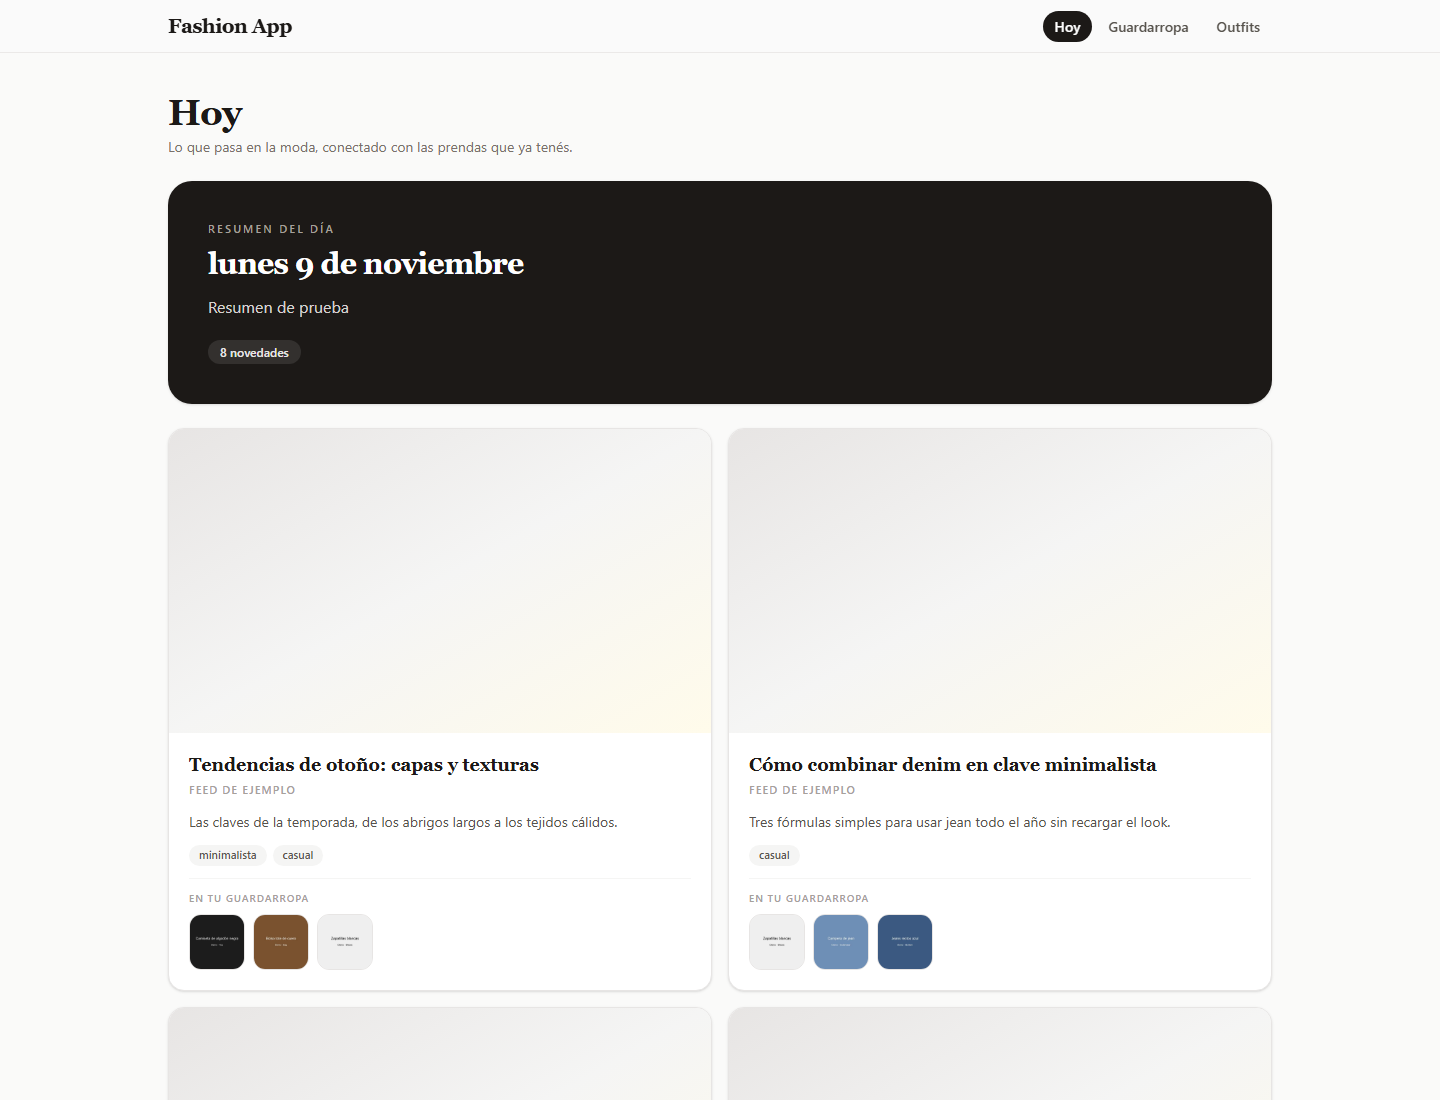
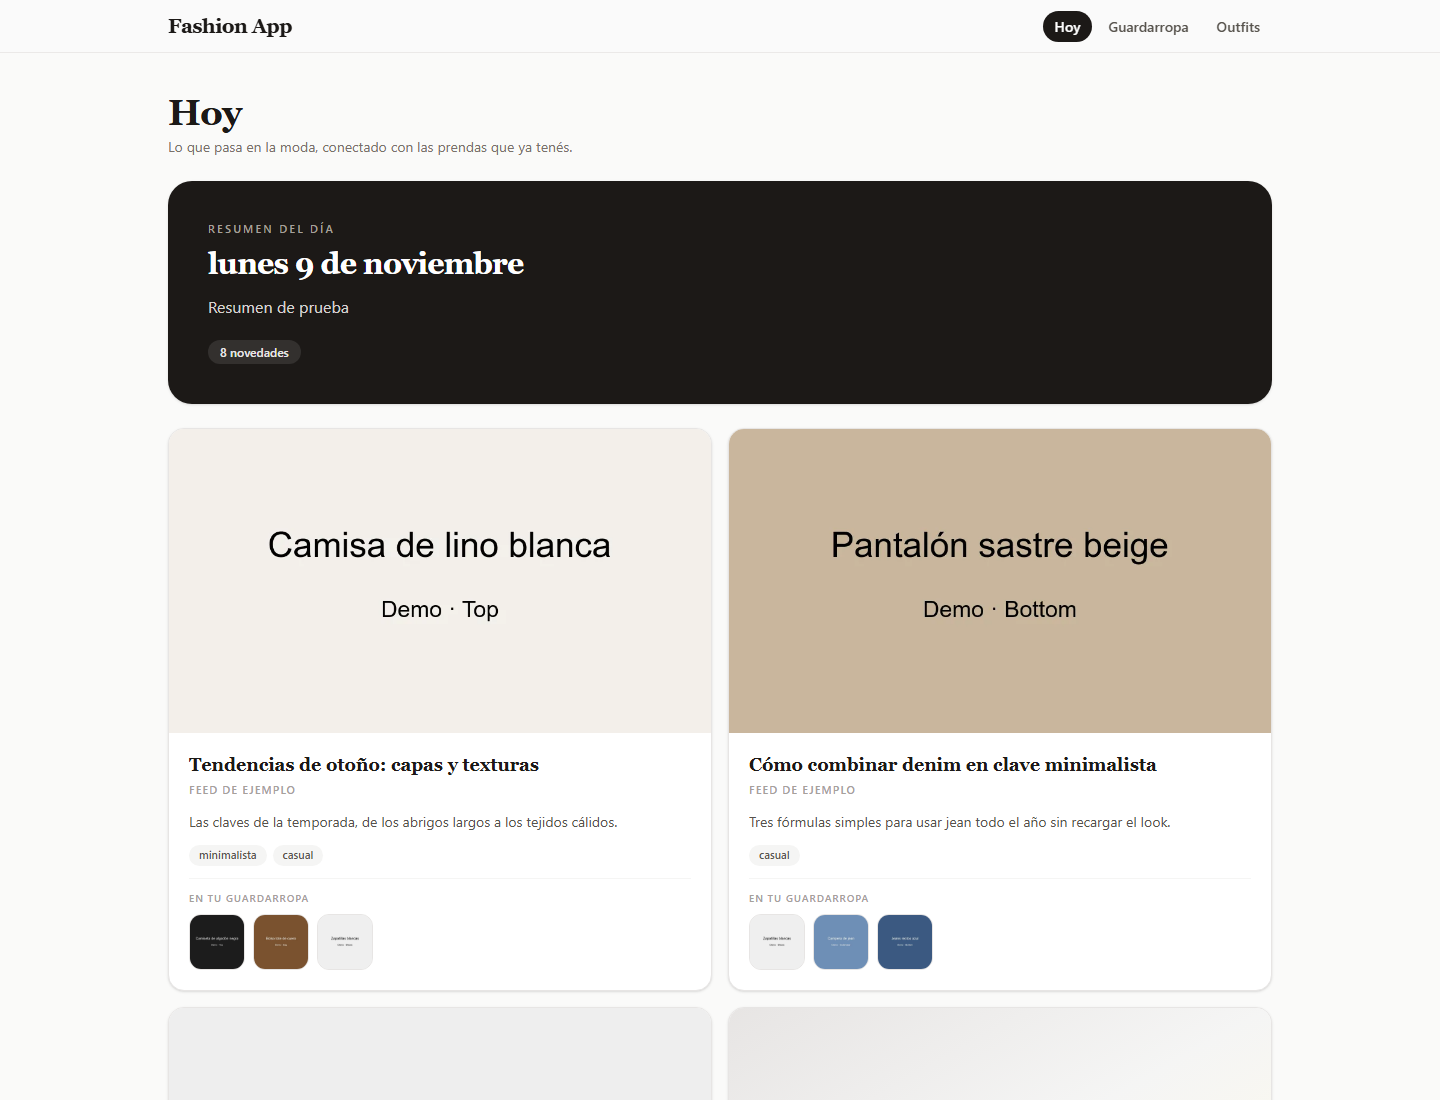
test: add demo images to the Hoy portfolio captures

Changed region(s): [[0.5, 0.3709, 0.9062, 0.68], [0.1875, 0.4636, 0.4375, 0.5255]]

diff --git a/frontend/tests/screenshots.spec.ts b/frontend/tests/screenshots.spec.ts
@@ -20,6 +20,7 @@ import type { APIRequestContext, Browser, Page } from '@playwright/test'
  */
 
 const API_URL = 'http://localhost:5210'
+const WEB_URL = 'http://localhost:5173'
 const ADMIN_SECRET = 'test-secret'
 const repoDir = resolve(dirname(fileURLToPath(import.meta.url)), '..', '..')
 const screenshotsDir = join(repoDir, 'docs', 'screenshots')
@@ -32,6 +33,13 @@ const demoAssetsDir = join(
   'SeedAssets',
 )
 const manifestPath = join(demoAssetsDir, 'manifest.json')
+// Absolute on purpose: `mediaUrl()` leaves absolute URLs untouched, and the
+// Vite dev server (not the API) serves the files in `frontend/public/`.
+const DEMO_NOTE_IMAGES = [
+  `${WEB_URL}/demo-note.webp`,
+  `${WEB_URL}/demo-note-2.webp`,
+  `${WEB_URL}/demo-note-3.webp`,
+]
 
 interface ManifestItem {
   name: string
@@ -289,17 +297,52 @@ async function captureAll(browser: Browser) {
         viewport.suffix === 'desktop'
           ? (capture.desktopHeight ?? viewport.viewport.height)
           : (capture.mobileHeight ?? viewport.viewport.height)
-      await page.setViewportSize({ width: viewport.viewport.width, height })
-      await page.goto(capture.path)
-      await capture.ready(page)
-      await page.waitForLoadState('networkidle')
-      await page.evaluate(() => document.fonts.ready)
-      await waitForImages(page)
+      const isHoy = capture.name === 'hoy'
 
-      await page.screenshot({
-        path: join(screenshotsDir, `${capture.name}-${viewport.suffix}.png`),
-        fullPage: false,
-      })
+      // Test-only enrichment: the fake feed has no images, so the Hoy cards
+      // would show empty gradients. The API and production code stay untouched.
+      if (isHoy) {
+        await page.route('**/api/digest/today', async (route) => {
+          const response = await route.fetch()
+          const digest = (await response.json()) as {
+            items?: Array<{ imageUrl?: string | null }>
+          }
+
+          if (Array.isArray(digest.items)) {
+            digest.items = digest.items.map((item, index) =>
+              index < DEMO_NOTE_IMAGES.length
+                ? { ...item, imageUrl: DEMO_NOTE_IMAGES[index] }
+                : item,
+            )
+          }
+
+          await route.fulfill({ response, json: digest })
+        })
+      }
+
+      try {
+        await page.setViewportSize({ width: viewport.viewport.width, height })
+        await page.goto(capture.path)
+        await capture.ready(page)
+        await page.waitForLoadState('networkidle')
+        await page.evaluate(() => document.fonts.ready)
+        await waitForImages(page)
+
+        if (isHoy) {
+          // The first three notes must render the intercepted image before the
+          // capture, otherwise a 404 would silently fall back to an empty card.
+          await expect(page.locator('article img[alt=""]')).toHaveCount(3)
+        }
+
+        await page.screenshot({
+          path: join(screenshotsDir, `${capture.name}-${viewport.suffix}.png`),
+          fullPage: false,
+        })
+      } finally {
+        if (isHoy) {
+          await page.unroute('**/api/digest/today')
+        }
+      }
     }
 
     await context.close()

diff --git a/README.md b/README.md
@@ -195,7 +195,11 @@ Escribe seis PNG en `docs/screenshots/`: viewport desktop 1440×900 y mobile
 390×844, con el PNG mobile a 2× (780×1688). La portada **Hoy** usa un viewport
 más alto —1440×1100 desktop y 390×1050 mobile (PNG 780×2100)— para que se vea
 completa la tira «En tu guardarropa»; el resto de las capturas conserva el
-viewport estándar. Sin `CAPTURE=1` el spec se salta.
+viewport estándar. Para que las notas no queden con bloques vacíos, el spec
+intercepta `GET /api/digest/today` **solo durante la captura de Hoy** y asigna
+`imageUrl` a las primeras tres notas usando imágenes demo de
+`frontend/public/`; la API y el código de producción no cambian. Sin
+`CAPTURE=1` el spec se salta.
 
 ## Variables de entorno
 
